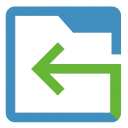
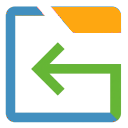
1.0.2

Changed region(s): [[0.125, 0.0312, 0.9688, 0.4375], [0.875, 0.9375, 0.9062, 0.9688]]

diff --git a/background.js b/background.js
@@ -1,5 +1,6 @@
 let settings = {
-  changeBadge: true,
+  changeBadge: false,
+  changeIcon: true,
   activateOnClose: false,
 };
 
@@ -16,6 +17,7 @@ chrome.storage.sync.get(settings, (items) => {
     chrome.storage.onChanged.addListener((changes, namespace) => {
         if (changes.changeBadge) settings.changeBadge = changes.changeBadge.newValue;
         if (changes.activateOnClose) settings.activateOnClose = changes.activateOnClose.newValue;
+        if (changes.changeIcon) settings.changeIcon = changes.changeIcon.newValue;
     });
 });
 
@@ -27,14 +29,16 @@ function switchToLastTab(updateIcon = true){
             .reduce((latest, current) => current.lastAccessed > latest.lastAccessed ? current : latest);
 
         if (previousTab?.id) {
-            if (updateIcon && settings.changeBadge) chrome.tabs.onActivated.removeListener(onTabActivated);
+            const iconChangeAllowed = updateIcon && (settings.changeBadge || settings.changeIcon);
+            if (iconChangeAllowed) chrome.tabs.onActivated.removeListener(onTabActivated);
+
             chrome.tabs.update(previousTab.id, { active: true }, function(){
-                if (updateIcon && settings.changeBadge) {
+                if (iconChangeAllowed) {
                     chrome.tabs.onActivated.addListener(onTabActivated);
                     chrome.storage.session.set({ lastKnownActiveTabId: previousTab.id });
 
-                    chrome.action.getBadgeText({}, (text) => {
-                        setIcon(text === "");
+                    chrome.action.getTitle({}, (text) => {
+                        setIcon(text === "Switch to Last Tab");
                     });
                 }
             });
@@ -45,7 +49,7 @@ function switchToLastTab(updateIcon = true){
 function onTabActivated(activeInfo) {
     chrome.windows.get(activeInfo.windowId, { populate: false }, (window) => {
         if (window && window.type === "normal") {
-            if (settings.changeBadge) setIcon(false);
+            if (settings.changeBadge || settings.changeIcon) setIcon(false);
         }
 
         /// delayed by windows.get to avoid race condition with onTabClose
@@ -64,19 +68,20 @@ function onTabClose(tabId, removeInfo) {
     });
 }
 
-function setIcon(showBadge = true){
-    if (!settings.changeBadge) {
-        chrome.action.setTitle({ title: "Switch to Last Tab" });
-        chrome.action.setBadgeText({ text: "" });
-        return;
+function setIcon(shouldChange = true){
+    chrome.action.setTitle({ title: shouldChange ? "Switch Back to Previous Tab" : "Switch to Last Tab" });
+
+    if (settings.changeBadge) {
+        if (shouldChange){
+            chrome.action.setBadgeText({ text: "🡢" });
+            chrome.action.setBadgeBackgroundColor({ color: "rgb(102, 181, 54)" });
+            chrome.action.setBadgeTextColor({ color: "white" });
+        } else {
+            chrome.action.setBadgeText({ text: "" });
+        }
     }
-    if (showBadge) {
-        chrome.action.setTitle({ title: "Switch Back to Last Tab" });
-        chrome.action.setBadgeText({ text: "🡢" });
-        chrome.action.setBadgeBackgroundColor({ color: "rgb(102, 181, 54)" });
-        chrome.action.setBadgeTextColor({ color: "white" });
-    } else {
-        chrome.action.setTitle({ title: "Switch to Last Tab" });
-        chrome.action.setBadgeText({ text: "" });
+
+    if (settings.changeIcon) {
+        chrome.action.setIcon({ path: shouldChange ? "./icon-red.png" : "./icon.png" });
     }
 }

diff --git a/options.js b/options.js
@@ -1,9 +1,11 @@
 // Load saved options
 chrome.storage.sync.get({
-  changeBadge: true,
+  changeBadge: false,
+  changeIcon: true,
   activateOnClose: false,
 }, (items) => {
   document.getElementById('changeBadge').checked = items.changeBadge;
+  document.getElementById('changeIcon').checked = items.changeIcon;
   document.getElementById('activateOnClose').checked = items.activateOnClose;
 });
 
@@ -11,10 +13,12 @@ chrome.storage.sync.get({
 document.getElementById('optionsForm').addEventListener('submit', (e) => {
   e.preventDefault();
   const changeBadge = document.getElementById('changeBadge').checked;
+  const changeIcon = document.getElementById('changeIcon').checked;
   const activateOnClose = document.getElementById('activateOnClose').checked;
   
   chrome.storage.sync.set({
     changeBadge,
+    changeIcon,
     activateOnClose
   }, () => {
     // alert('Options saved!');

diff --git a/options.html b/options.html
@@ -12,6 +12,10 @@
   <!-- <h2>Switch to Last Tab Options</h2> -->
   <form id="optionsForm">
     <label>
+      <input type="checkbox" id="changeIcon">
+      Change icon on toolbar icon click
+    </label>
+    <label>
       <input type="checkbox" id="changeBadge">
       Change badge on toolbar icon click
     </label>
